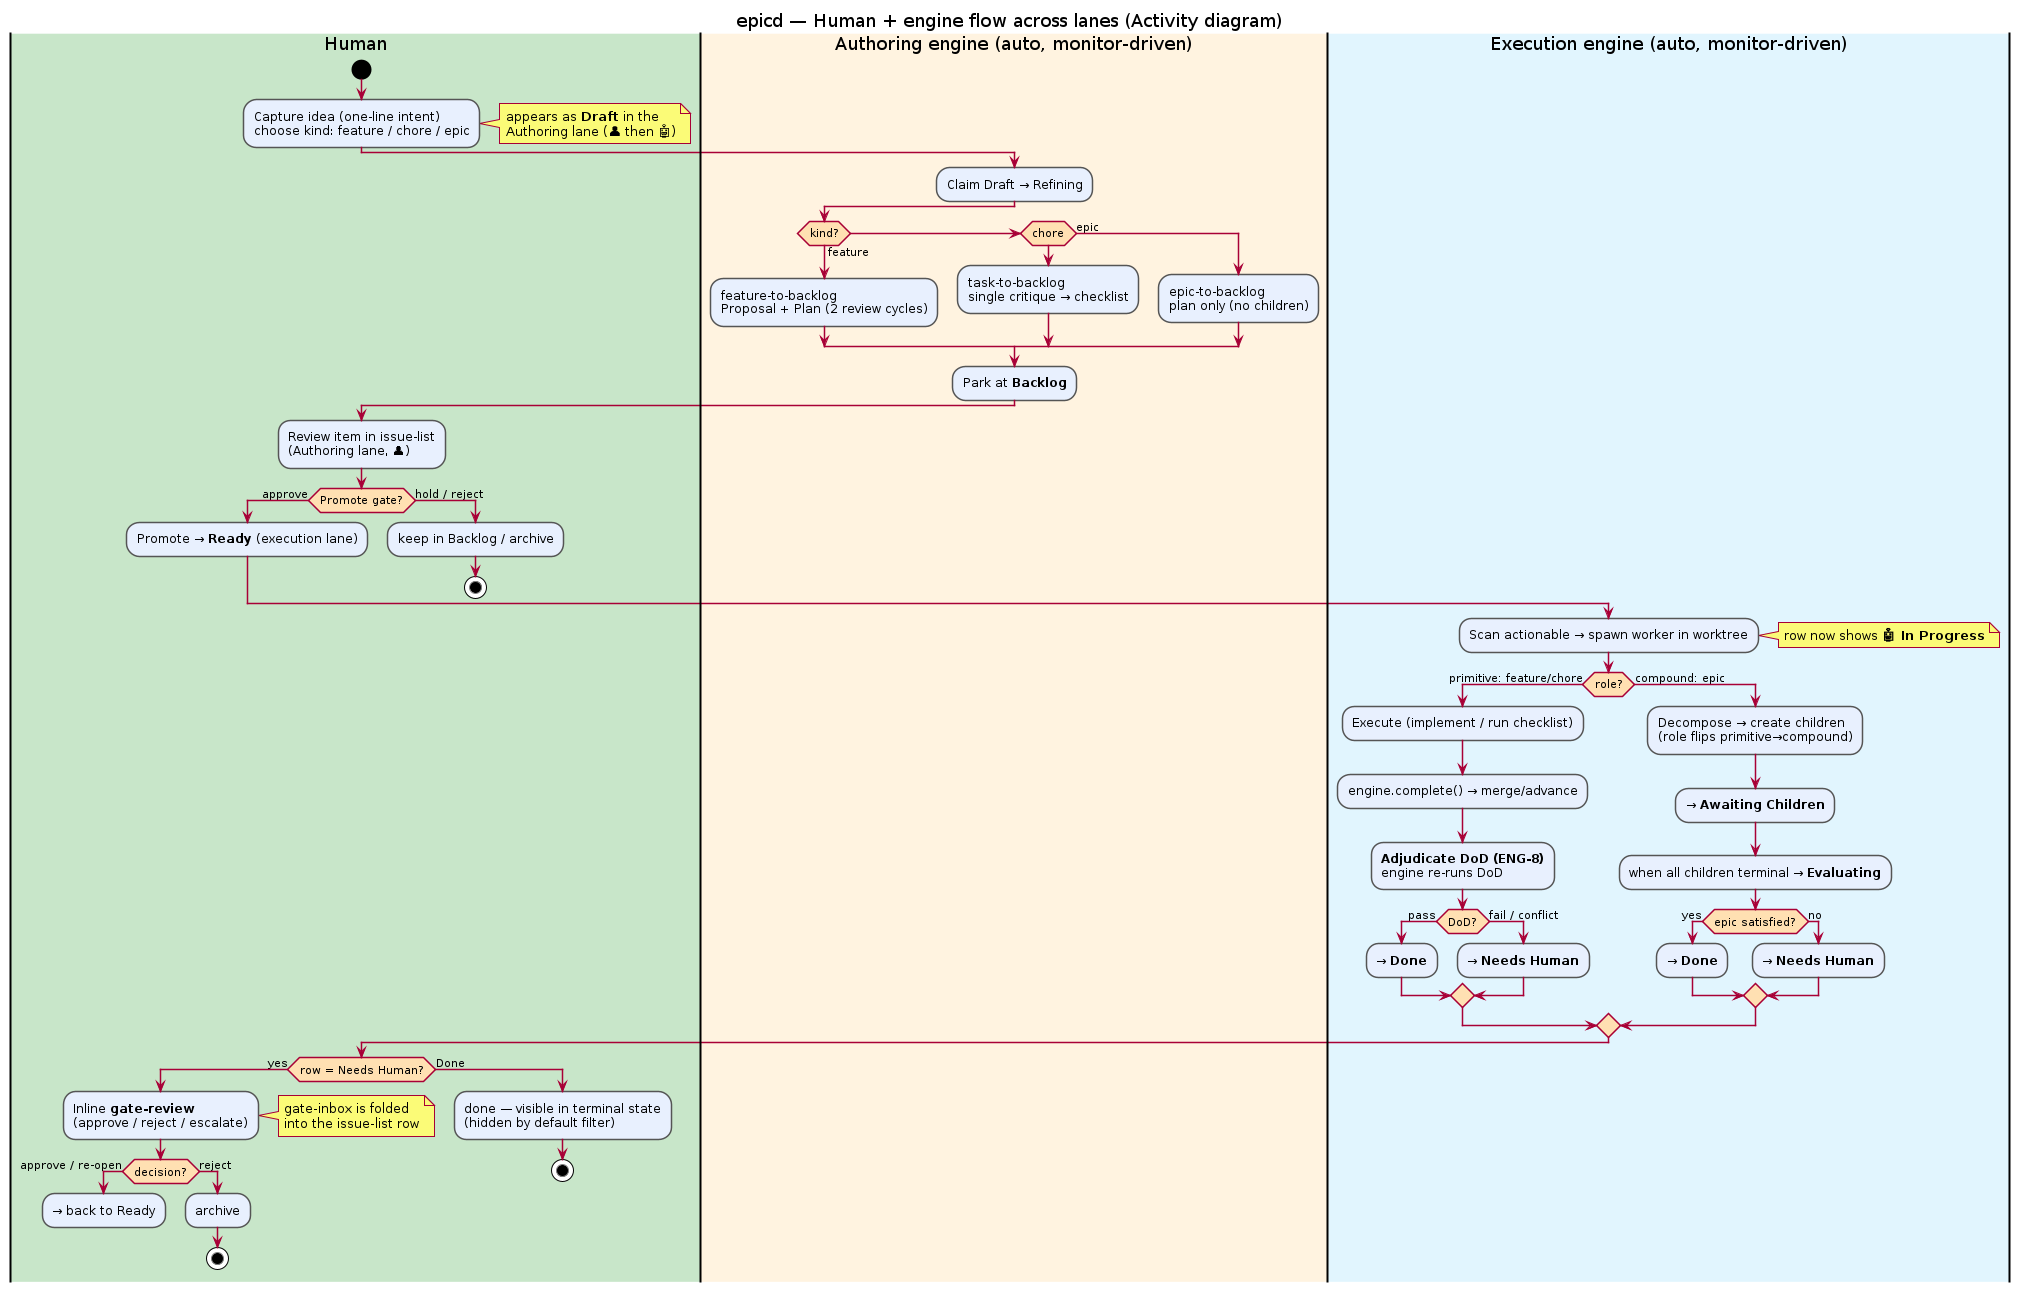
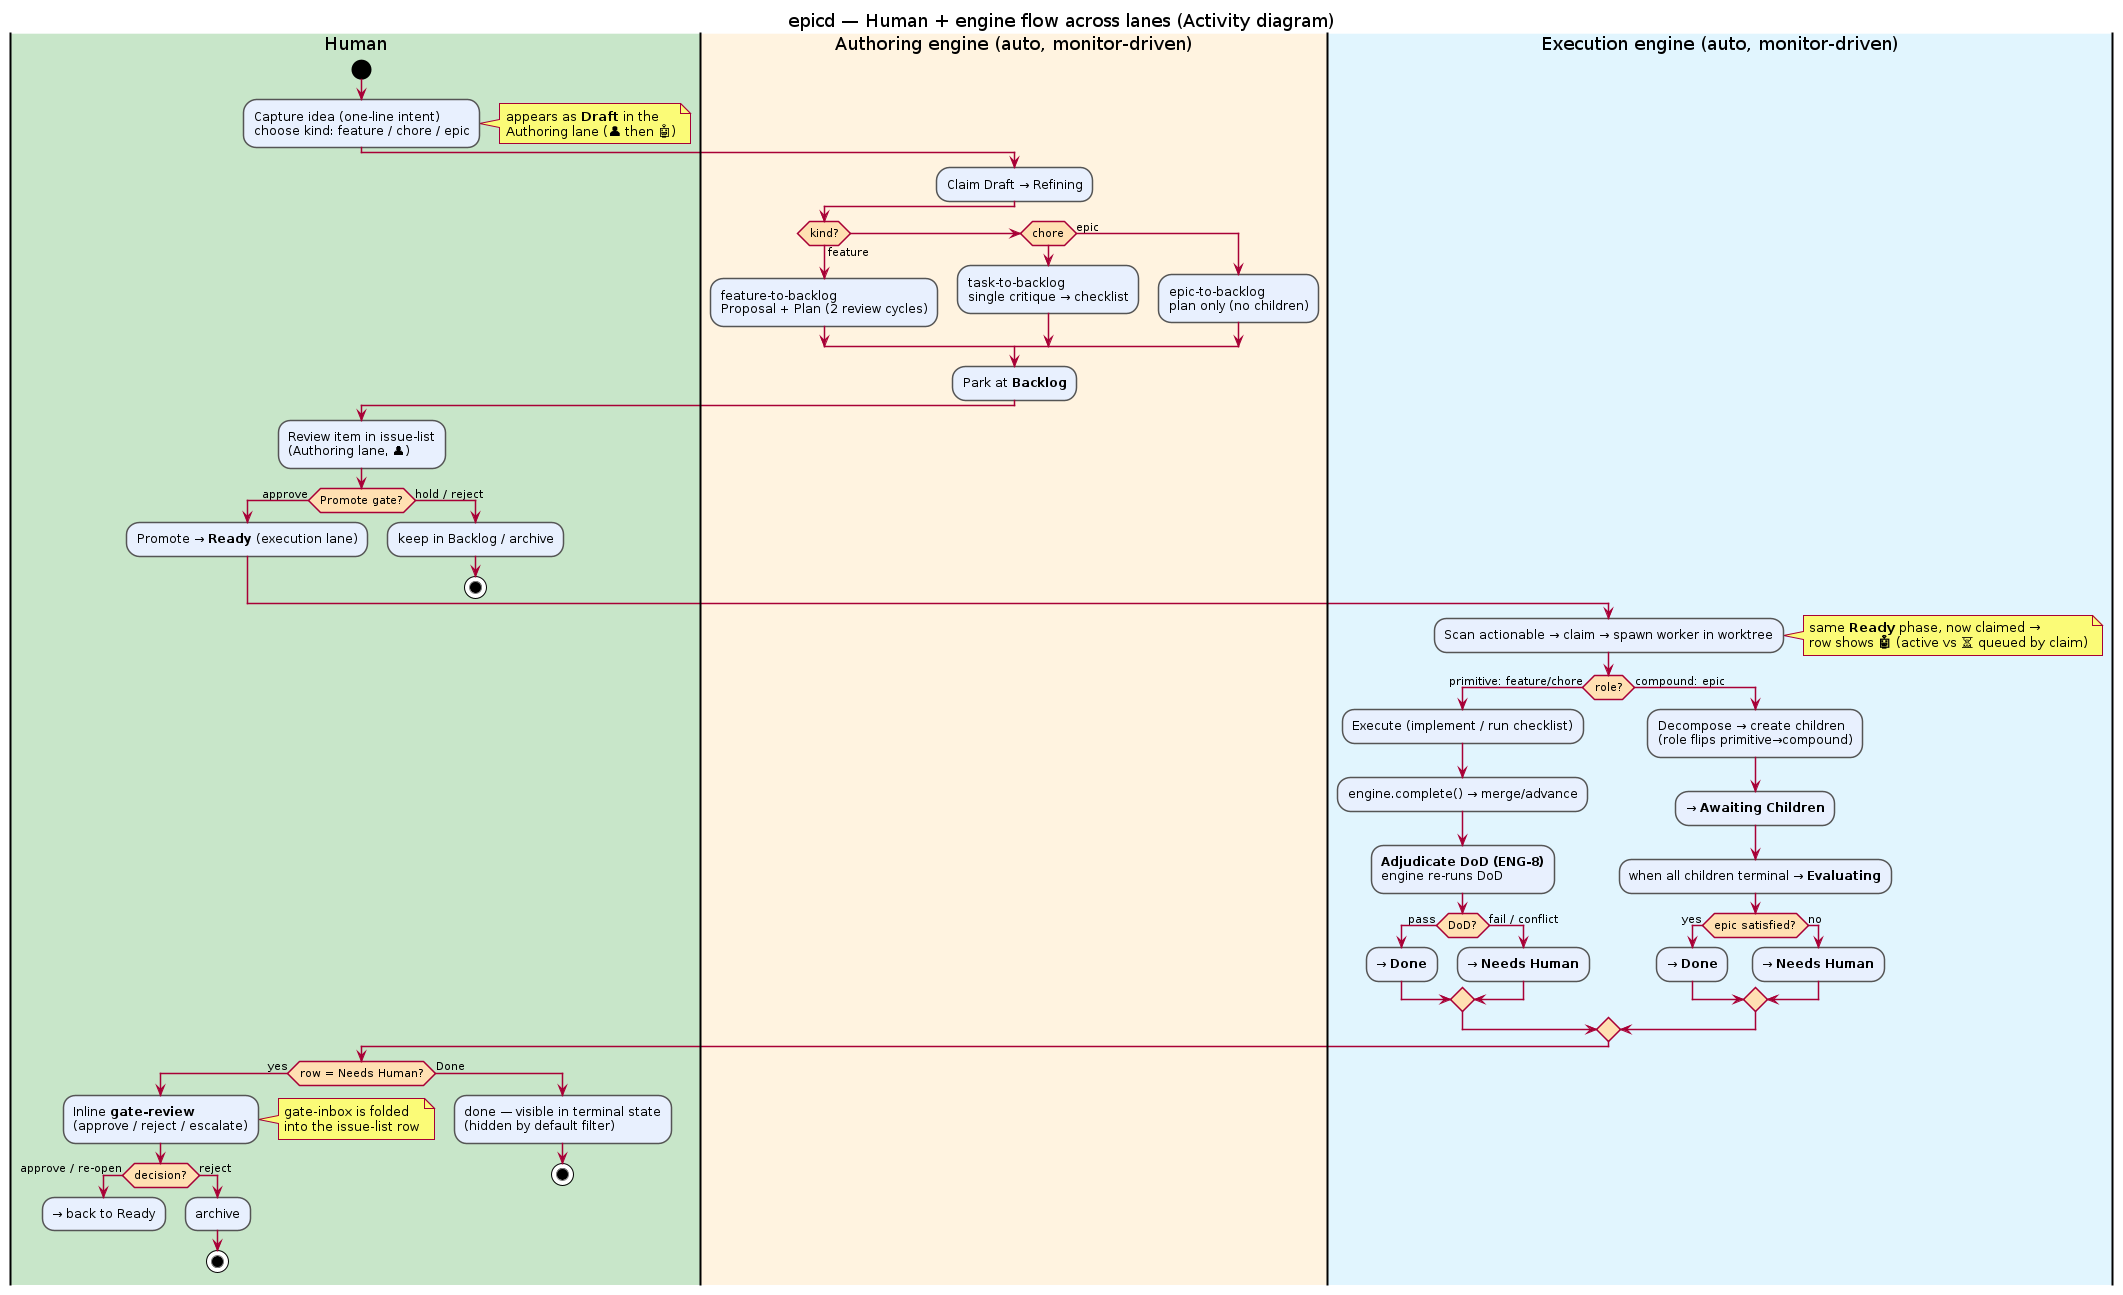
docs: Add human-operations activity diagram; align activity diagram to final model
Add human-operations-activity.puml (companion to use-case View 1): the human
is the gate owner and acts only on actor=human rows (Backlog promote gate,
Needs-Human review) plus capture — a gate loop plus an operation-set legend
(capture / promote / gate-review / restart / priority / label / config /
trust ratchet). Fix the end-to-end activity diagram's stale "In Progress"
label (ready and in-progress are the same phase; claim distinguishes active
vs queued). Link the new diagram from use-case-model.md.

Changed region(s): [[0.0, 0.0, 0.998, 1.0], [0.0624, 0.3096, 0.2807, 0.4644], [0.7173, 0.031, 0.9045, 0.0619]]

diff --git a/docs/uml/use-case-model.md b/docs/uml/use-case-model.md
@@ -5,7 +5,8 @@
 > 渲染：`PLANTUML_LIMIT_SIZE=16384 plantuml -tpng docs/uml/use-case-model.puml`
 >
 > **RUP 行为图（用户可见行为）**：
-> [State](workitem-lifecycle-state.puml) · [Activity](issue-list-activity.puml) · [Sequence×3](issue-list-sequence.puml)。
+> [State](workitem-lifecycle-state.puml) · [Activity](issue-list-activity.puml) · [Sequence×3](issue-list-sequence.puml) ·
+> [人类操作集 Human-ops](human-operations-activity.puml)（人只在 actor=human 的 👤 行动手 + capture）。
 > 多车道 issue-list 模型见 proposal [`2026-07-04-multi-lane-issue-list.md`](../proposals/2026-07-04-multi-lane-issue-list.md)。
 > **内部架构骨架（class 图输入）**：[`architecture-class-skeleton.puml`](architecture-class-skeleton.puml) —
 > 三平面（核心状态机 / 执行-驱动 / 展示）+ 两只读契约（IssueSource · Coordinator）+ RefineStrategy 注册表。